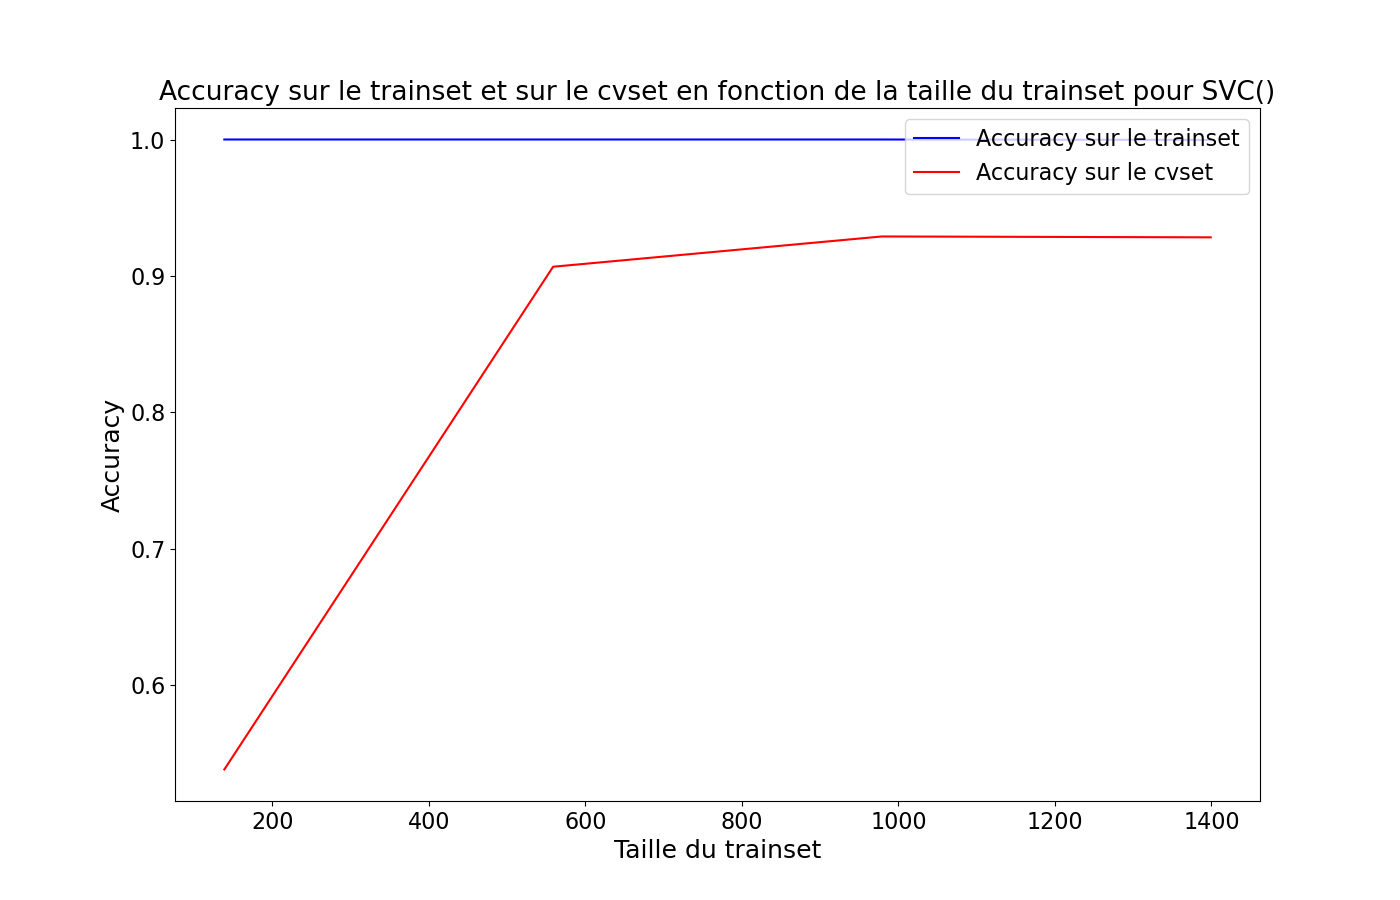
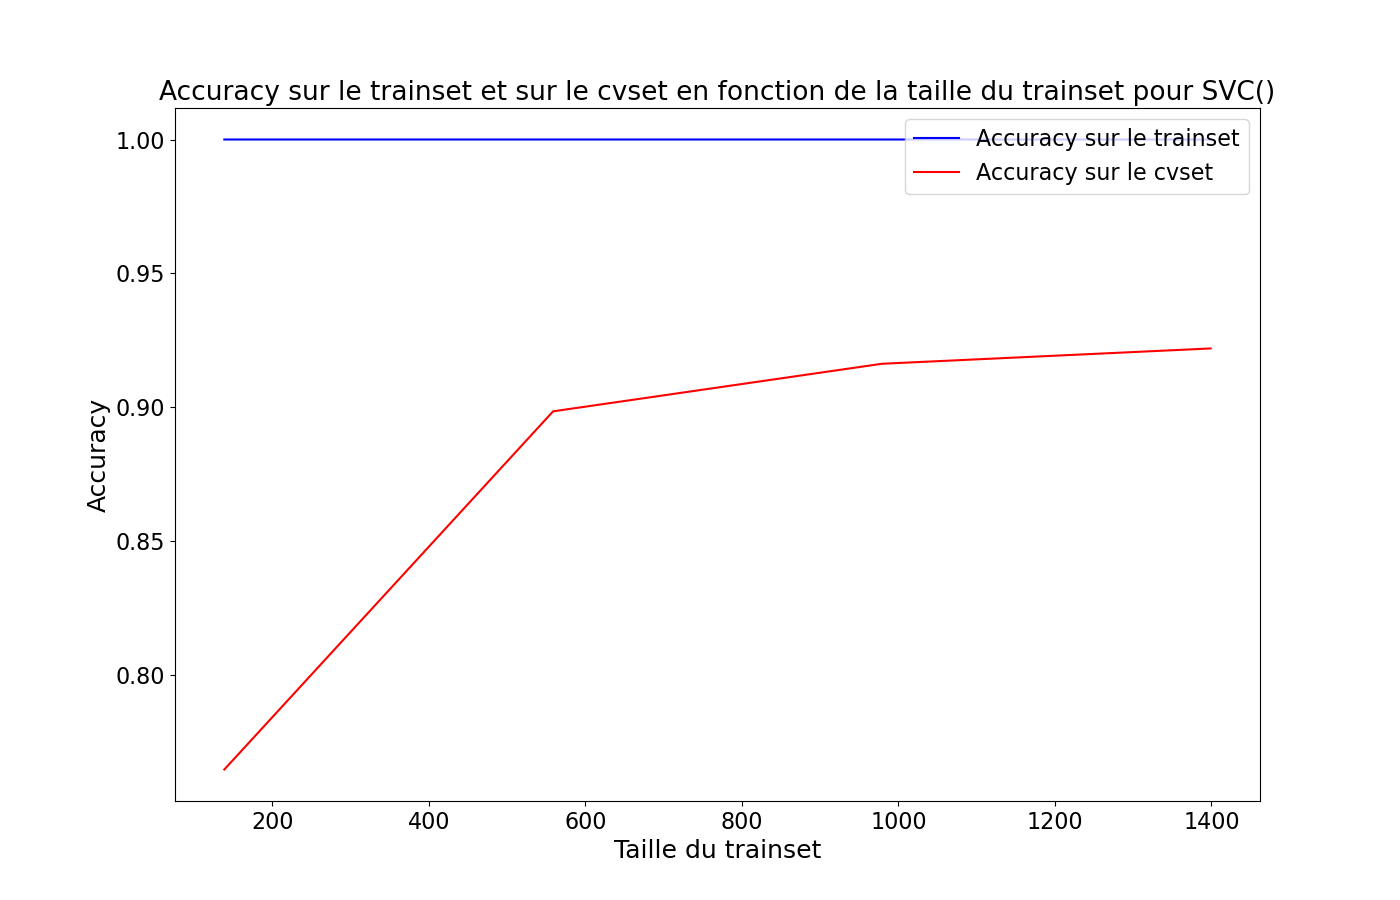
tfidf 2_model_tfidf.py version script ok

diff --git a/sources/classification/lib_classification.py b/sources/classification/lib_classification.py
@@ -30,7 +30,9 @@ from lib_merge_corpus import *
 
 def get_merged_corpus_filenames(sys_argv):
     # python 2_model_selection.py command parquet corpus_edwardfeser_exapologist.parquet corpus_alexanderpruss_edwardfeser.parquet
-    # python 2_model_selection.py ./data/input parquet
+    # python 2_model_selection.py ./data/input/ parquet
+    # python 2_model_selection.py ./data/input/ csv
+    # python 2_model_selection.py ./data/input/ all
     
     #argv[0] = le nom du fichier python execute
 	files_to_open = sys_argv[1] # argument du script, si files_to_open==command execute le script sur les 
@@ -387,14 +389,14 @@ def select_models(filenames):
 
         ## Learning curves (du meilleur modele)
         k = 10
-        kfold = RepeatedStratifiedKFold(n_splits=k, n_repeats=2, random_state=None)
+        kfold = RepeatedStratifiedKFold(n_splits=k, n_repeats=20, random_state=None)
         cv_param = kfold
         num_experiences = 4
         train_sizes = np.linspace(0.1, 1.0, num_experiences)
         n_jobs = -1
         model = SVC()
 
-        scorings = ['accuracy', 'precision']
+        scorings = ['accuracy', 'f1_macro', 'recall', 'precision']
         get_all_learning_curves(model, X_train_tfidf, y_train, cv_param, scorings, train_sizes, n_jobs=-1, 
                                     savefig=savefig, dataset_name=corpus_name)
         # get_all_learning_curves(model, X_train, y_train, cv_param, scorings, train_sizes, n_jobs=-1, 

diff --git a/sources/classification/tfidf/2_model_selection.py b/sources/classification/tfidf/2_model_selection.py
@@ -38,6 +38,7 @@ from lib_classification import *
 # python 2_model_selection.py command parquet data_history_baptism.parquet data_philosophy_baptism.parquet
     # ==> Execute le script sur les datasets data_history_baptism.parquet data_philosophy_baptism.parquet
 # python 2_model_selection.py command parquet corpus_edwardfeser_exapologist.parquet corpus_alexanderpruss_edwardfeser.parquet
+# python 2_model_selection.py command parquet corpus_alexanderpruss_exapologist.parquet
 # python 2_model_selection.py ./data/input parquet
     # ==> Execute le script sur tous les datasets parquet dans ./data/input
 def main():
